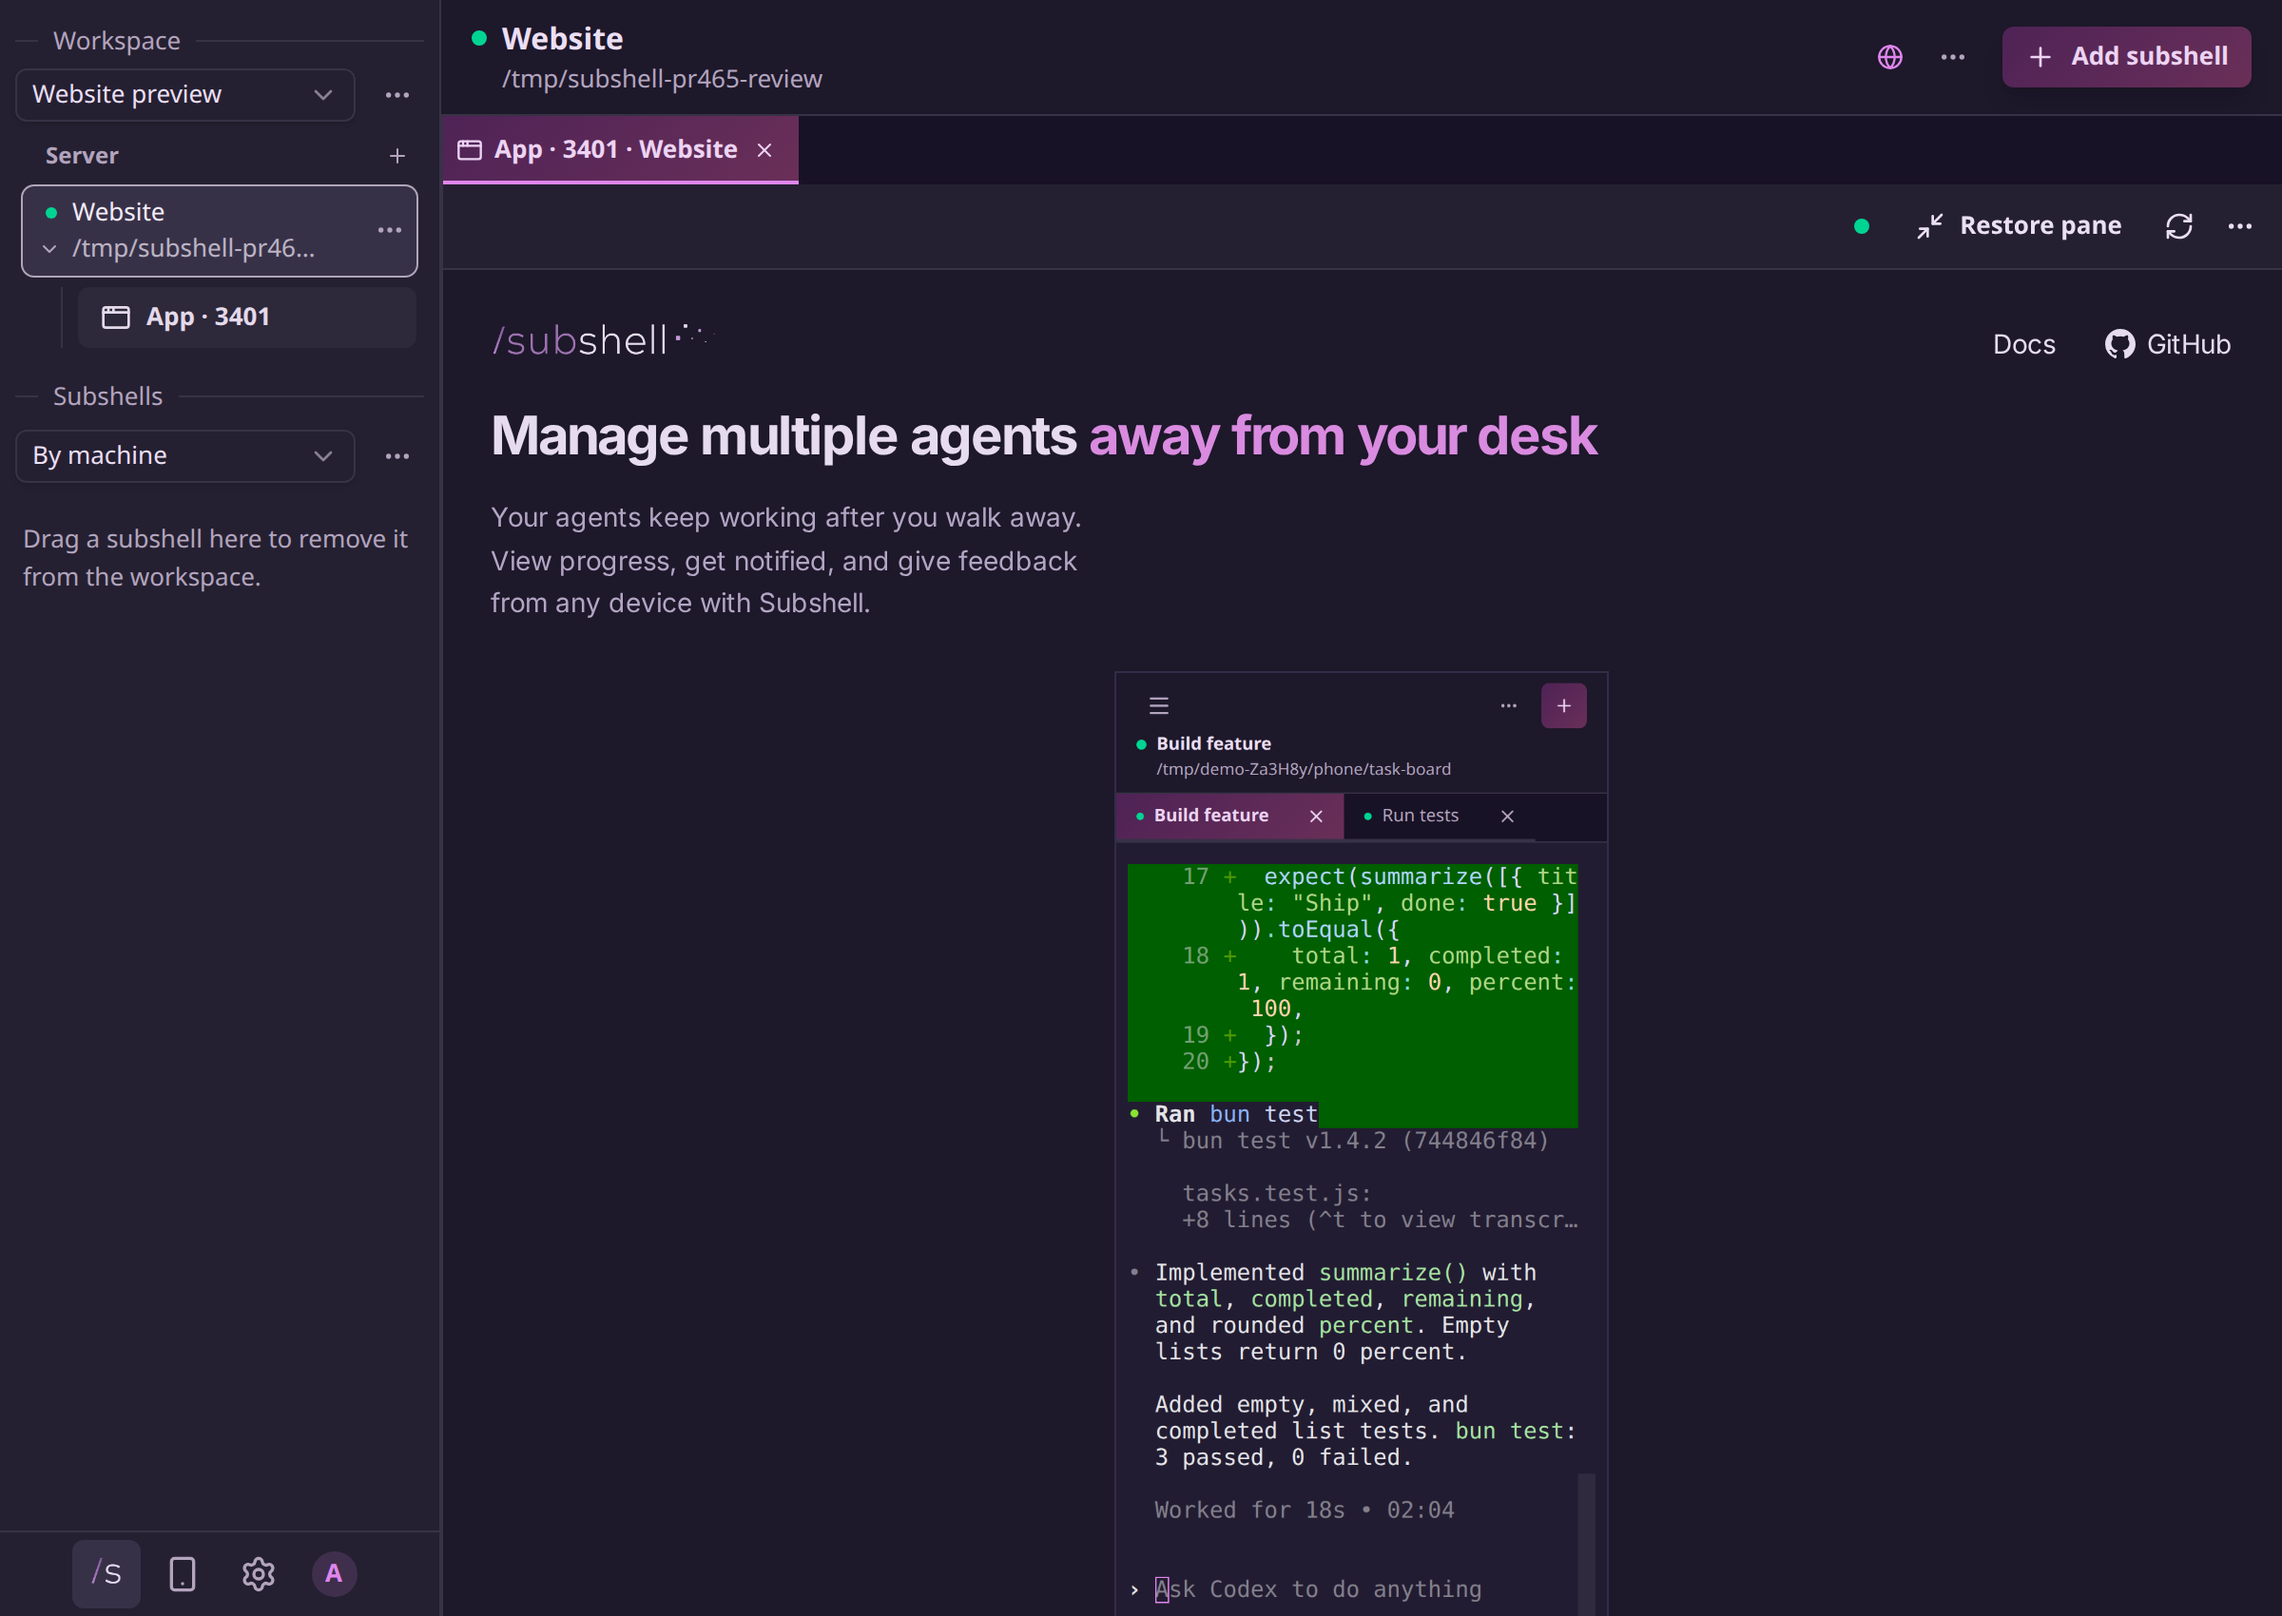
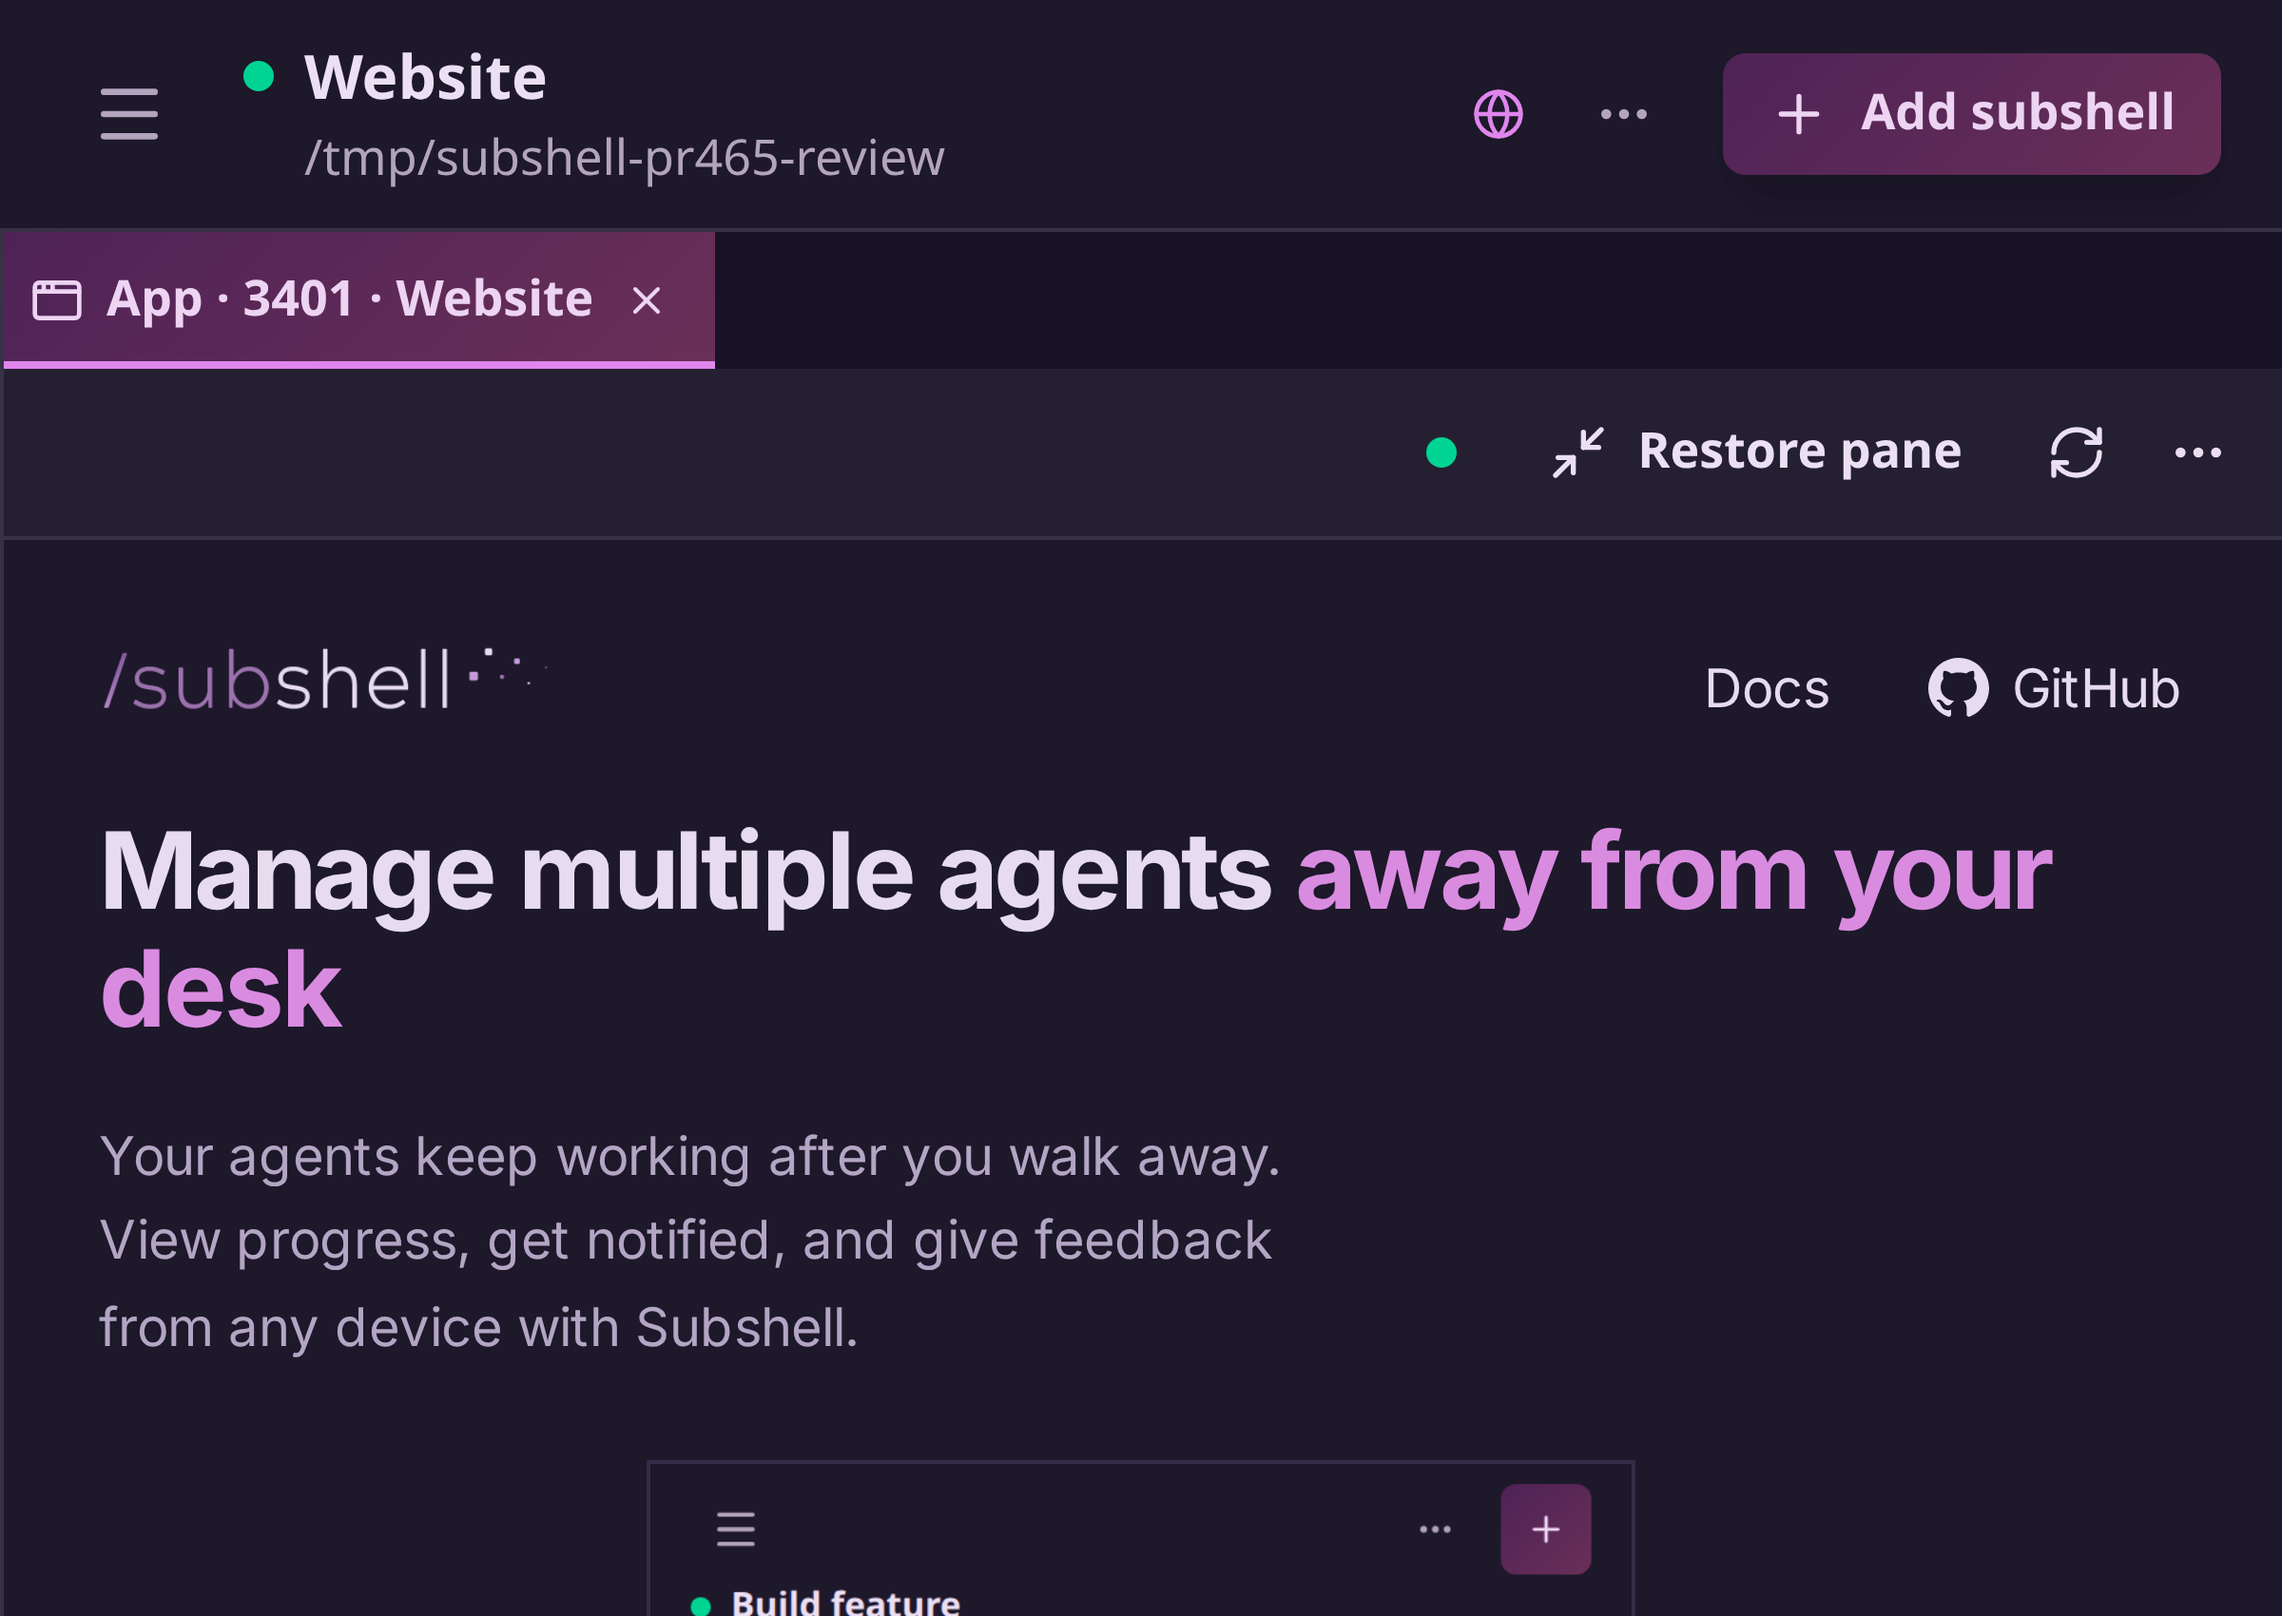
Enlarge preview screenshots and clarify badge examples

diff --git a/e2e/capture-preview-intro.ts b/e2e/capture-preview-intro.ts
@@ -2,6 +2,7 @@
 import { mkdirSync } from "node:fs";
 import { chromium, expect, request } from "@playwright/test";
 import { BASE_URL } from "./ports";
+import { captureScreenshot } from "./screenshot";
 import { startStack, stopStack } from "./stack";
 
 const cleanup: (() => unknown | Promise<unknown>)[] = [stopStack];
@@ -46,8 +47,10 @@ try {
   const context = await browser.newContext({
     baseURL: BASE_URL,
     storageState: await api.storageState(),
-    viewport: { width: 1200, height: 850 },
-    deviceScaleFactor: 2,
+    // Match 200% browser zoom: half the CSS viewport at twice the pixel density.
+    // Keep the exported image at 2400 × 1700 while making text and controls twice as large.
+    viewport: { width: 600, height: 425 },
+    deviceScaleFactor: 4,
     colorScheme: "dark",
   });
   const page = await context.newPage();
@@ -59,6 +62,11 @@ try {
   });
   await page.goto(`/workspaces/${workspace.id}`);
   await page.getByRole("button", { name: /^Open web preview or screen/ }).click();
+  await captureScreenshot(
+    page,
+    "apps/docs/public/screenshots/preview-picker.png",
+    page.getByRole("dialog", { name: "Open web preview or screen" }),
+  );
   await page.getByRole("button", { name: /^Subshell website/ }).click();
   await page.getByRole("button", { name: "More view actions" }).click();
   await page.getByRole("menuitem", { name: "Maximize pane" }).click();
